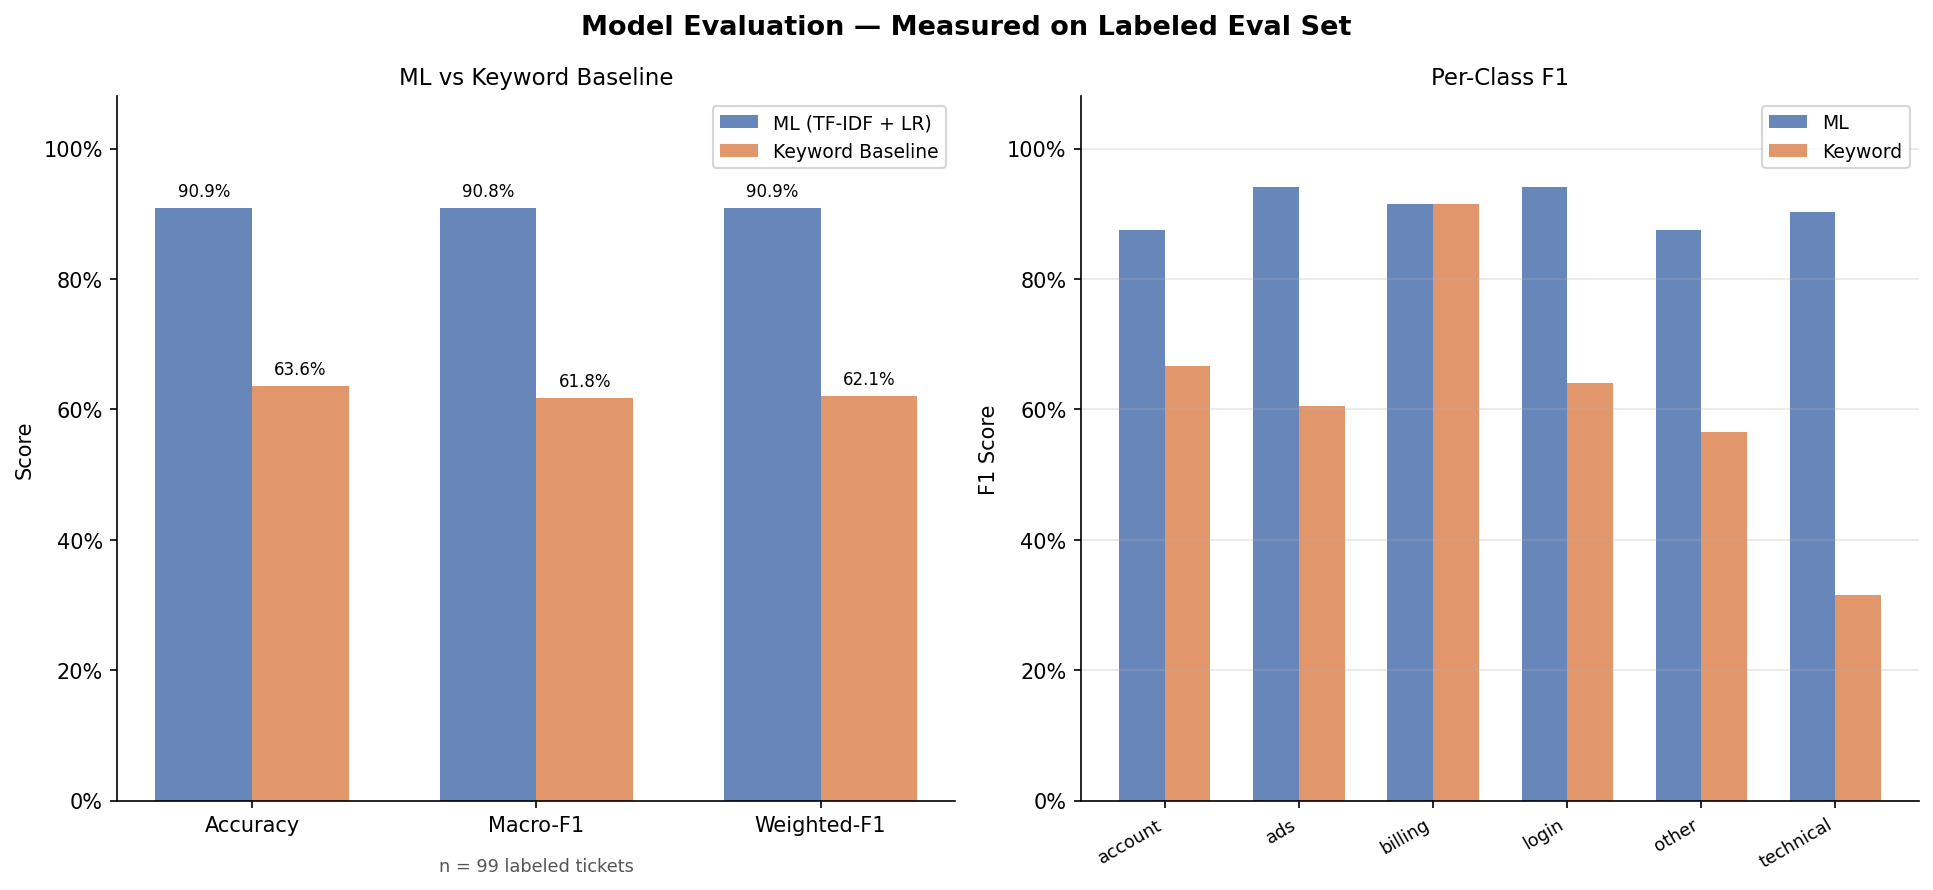
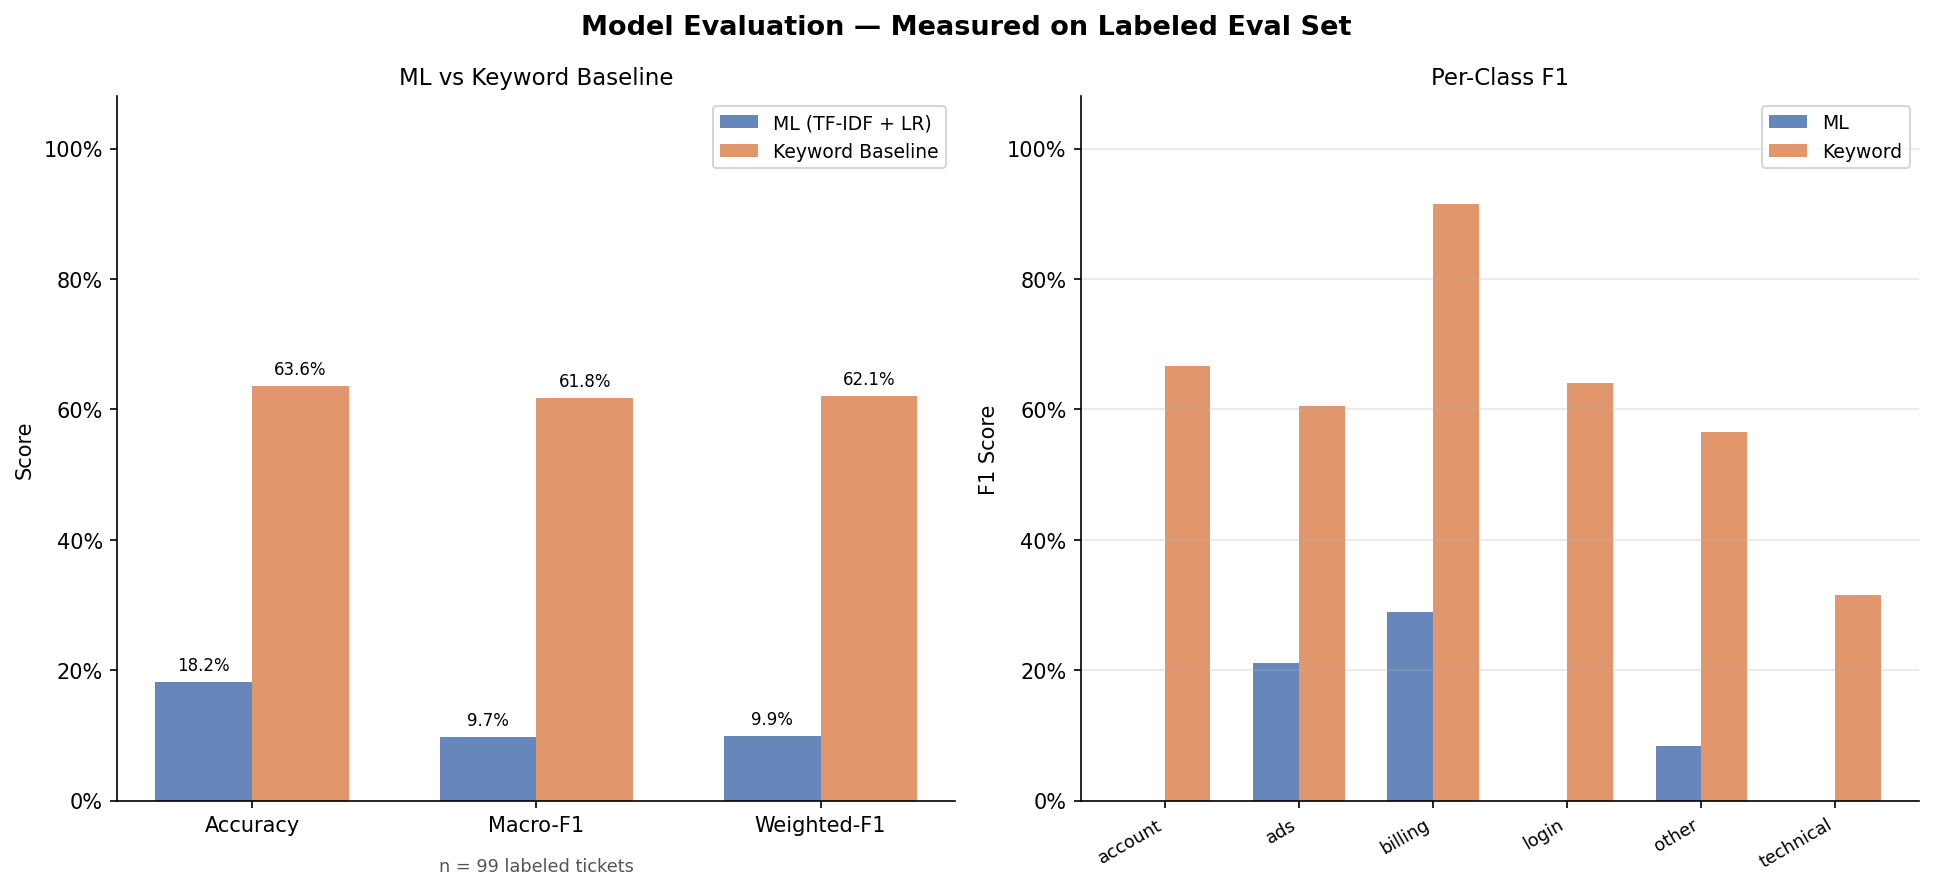
Regenerate preview assets from full Kaggle pipeline (8,126 tickets)
- Downloaded thoughtvector/customer-support-on-twitter (169 MB) and
  suraj520/customer-support-ticket-dataset via Kaggle CLI
- Ran run_pipeline.py on 8,126 unified tickets (99.4% real labels)
- Fixed path-quoting bug in data.py download_kaggle_dataset for paths
  containing spaces
- Regenerated all 3 preview images from fresh pipeline outputs:
  assets/dashboard_overview.png, assets/policy_tradeoff.png,
  assets/model_evaluation.png
- Updated README Visual Preview section to cite the two public Kaggle datasets

diff --git a/src/llm_support_routing/data.py b/src/llm_support_routing/data.py
@@ -61,7 +61,7 @@ def download_kaggle_dataset(dataset_slug: str, destination: Path) -> None:
     Requires KAGGLE_USERNAME and KAGGLE_KEY in environment.
     """
     destination.mkdir(parents=True, exist_ok=True)
-    cmd = f"kaggle datasets download -d {dataset_slug} -p {destination} --unzip"
+    cmd = f'kaggle datasets download -d {dataset_slug} -p "{destination}" --unzip'
     exit_code = os.system(cmd)
     if exit_code != 0:
         raise RuntimeError(

diff --git a/README.md b/README.md
@@ -14,7 +14,7 @@ For a deeper explanation of design choices, evaluation strategy, operational tra
 
 ## Visual Preview
 
-These previews are generated from real project outputs after running the local pipeline.
+These previews are generated from real pipeline outputs using the two public Kaggle datasets (`thoughtvector/customer-support-on-twitter` and `suraj520/customer-support-ticket-dataset`). Run `python scripts/run_pipeline.py --download` then `python scripts/generate_preview_assets.py` to reproduce them.
 
 ### 1. Operations Overview
 
